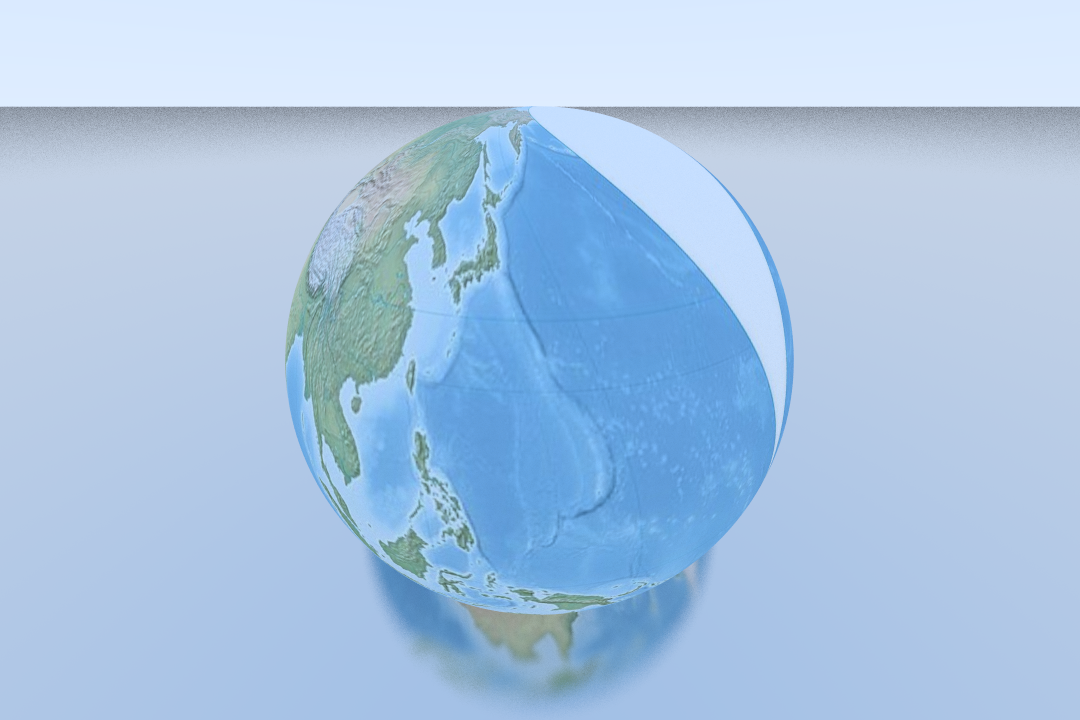
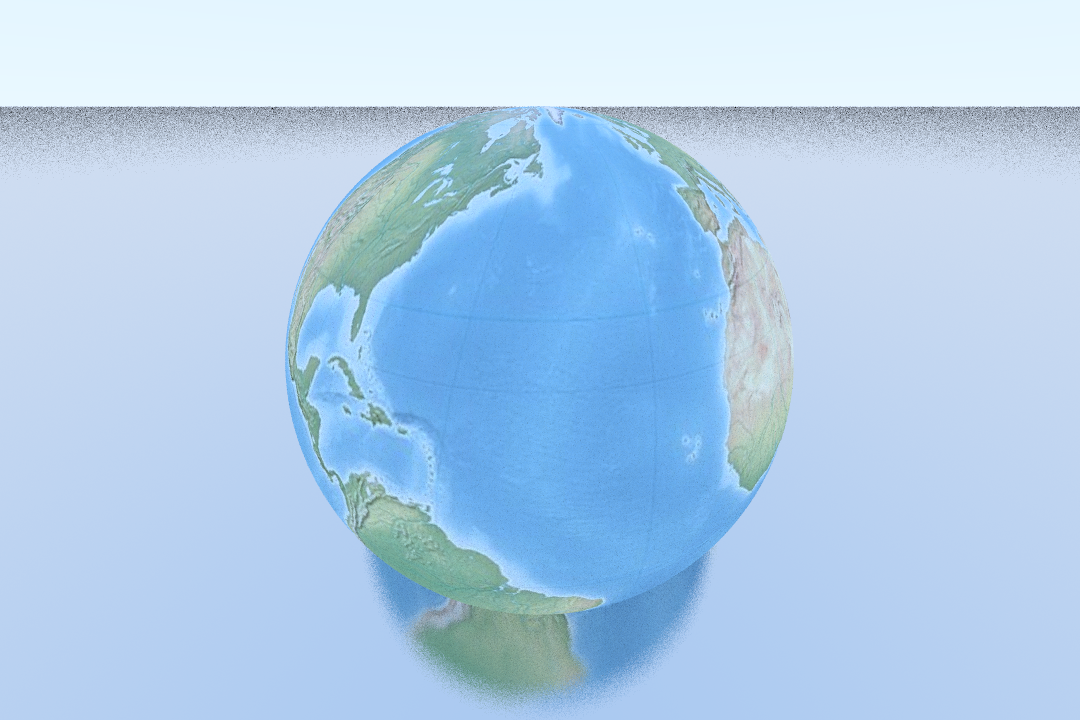
fix: improve mipmaps algorithm to remove hardcoded values

Changed region(s): [[0.0, 0.1528, 1.0, 0.9778], [0.55, 0.6417, 0.5806, 0.7028], [0.5194, 0.7028, 0.55, 0.7333]]

diff --git a/textures/image_texture.cpp b/textures/image_texture.cpp
@@ -8,7 +8,6 @@ ImageTexture::ImageTexture(const std::string &filename) {
     width = height = channels = 0;
   }
   generate_mipmaps();
-  std::cout << "Mip Level: " << mipmaps.size() << "\n";
 }
 
 ImageTexture::~ImageTexture() {
@@ -18,18 +17,20 @@ ImageTexture::~ImageTexture() {
   if (data) stbi_image_free(data);
 }
 
-Vec3 ImageTexture::value(double u, double v, const Vec3 &point) const {
+Vec3 ImageTexture::value(double u, double v, const Vec3 &point, double ray_t) const {
   if (!data) return Vec3(0, 1, 1); // random debugging color
-  int level = 0;
-  // int d = point.norm();
-  // int level =
-  //   d < 5   ? 0 :
-  //   d < 15  ? 1 :
-  //   d < 40  ? 2 :
-  //   d < 80  ? 3 :
-  //             4;//std::min((int)(point.norm()*0.5), (int)mipmaps.size() - 1);
-  const MipLevel &mip = mipmaps[level];
+  int max_level = (int)mipmaps.size() -1 ;
+  
+  // we want to see where texels to pixels is approx 1:1 but we can't do the du/dv in rasterizers
+  // using the following approximation, where ray_t is world-space distance, width gives texel density
 
+  double texels_per_pixel = ray_t * 0.2;
+  int level = (int)log2(std::max(texels_per_pixel, 1.0));
+  level = std::clamp(level, 0, max_level);
+
+  const MipLevel &mip = mipmaps[level];
+  
+  // bilinear filtering
   int w = mip.width;
   int h = mip.height;
   unsigned char* tex = mip.data;
@@ -53,7 +54,6 @@ Vec3 ImageTexture::value(double u, double v, const Vec3 &point) const {
     return pow(x, 2.2);
   };
 
-  // bilinear filtering
   auto get_pixel = [&](int i, int j) {
     int index = (j * w + i) * 3;
     return Vec3(srgb_to_linear(tex[index] / 255.0), srgb_to_linear(tex[index + 1] / 255.0), srgb_to_linear(tex[index + 2] / 255.0));

diff --git a/materials/dielectric.cpp b/materials/dielectric.cpp
@@ -4,7 +4,7 @@
 Dielectric::Dielectric(double ir, std::shared_ptr<Texture> tint) : ir(ir), tint(tint) {}
 
 bool Dielectric::scatter(const Ray &ray_in, const HitRecord &rec, Vec3 &attenuation, Ray &scattered) const{
-  attenuation = tint ? tint->value(rec.u, rec.v, rec.point) : Vec3(1.0, 1.0, 1.0);
+  attenuation = tint ? tint->value(rec.u, rec.v, rec.point, rec.t) : Vec3(1.0, 1.0, 1.0);
   double refract_ratio = rec.front_face ? (1.0/ir) : ir;
   Vec3 unit_dir = ray_in.direction.normalize();
 

diff --git a/src/main.cpp b/src/main.cpp
@@ -30,7 +30,7 @@
 int main() {
   int width = 1080;
   int height = 720;
-  const int samples_per_pixel = 100;
+  const int samples_per_pixel = 10;
   const int max_depth = 50;
 
   // Making the scene
@@ -54,7 +54,7 @@ int main() {
   
   // Camera setup
   double aspect_ratio = double(width)/height;
-  Vec3 lookfrom(-20, 20, -20);
+  Vec3 lookfrom(20, 20, 20);
   Vec3 lookat(0, 0, 0);
   Vec3 vup(0, 1, 0);
   double focus_dist = (lookfrom - lookat).norm();

diff --git a/materials/metal.cpp b/materials/metal.cpp
@@ -8,7 +8,7 @@ bool Metal::scatter(const Ray &ray_in, const HitRecord &rec, Vec3 &attenuation, 
   Vec3 reflected = reflect(ray_in.direction.normalize(), rec.normal);
 
   scattered = Ray(rec.point, reflected + random_in_unit_sphere() * fuzz);
-  attenuation = albedo->value(rec.u, rec.v, rec.point);
+  attenuation = albedo->value(rec.u, rec.v, rec.point, rec.t);
 
   return scattered.direction.dot(rec.normal) > 0;
 }

diff --git a/materials/lambertian.cpp b/materials/lambertian.cpp
@@ -7,7 +7,7 @@ bool Lambertian::scatter(const Ray &ray_in, const HitRecord &rec, Vec3 &attenuat
   Vec3 scatter_direction = rec.normal + random_unit_vector();
   
   scattered = Ray(rec.point, scatter_direction);
-  attenuation = albedo -> value(rec.u, rec.v, rec.point);
+  attenuation = albedo -> value(rec.u, rec.v, rec.point, rec.t);
   
   return true;
 }

diff --git a/textures/solid_color.h b/textures/solid_color.h
@@ -9,7 +9,7 @@ public:
   SolidColor() {}
   SolidColor(const Vec3 &c) : color(c) {}
 
-  inline Vec3 value(double u, double v, const Vec3 &p) const override {return color;}
+  inline Vec3 value(double u, double v, const Vec3 &p, double ray_t = 0.0) const override {return color;}
 };
 
 #endif

diff --git a/textures/image_texture.h b/textures/image_texture.h
@@ -20,5 +20,5 @@ public:
 
   ImageTexture(const std::string &filename);
   ~ImageTexture();
-  Vec3 value(double u, double v, const Vec3 &point) const override;
+  Vec3 value(double u, double v, const Vec3 &point, double ray_t = 0.0) const override;
 };

diff --git a/textures/texture.h b/textures/texture.h
@@ -4,7 +4,7 @@
 
 class Texture {
 public:
-  virtual Vec3 value(double u, double v, const Vec3 &point) const = 0;
+  virtual Vec3 value(double u, double v, const Vec3 &point, double ray_t = 0.0) const = 0;
 };
 
 #endif
